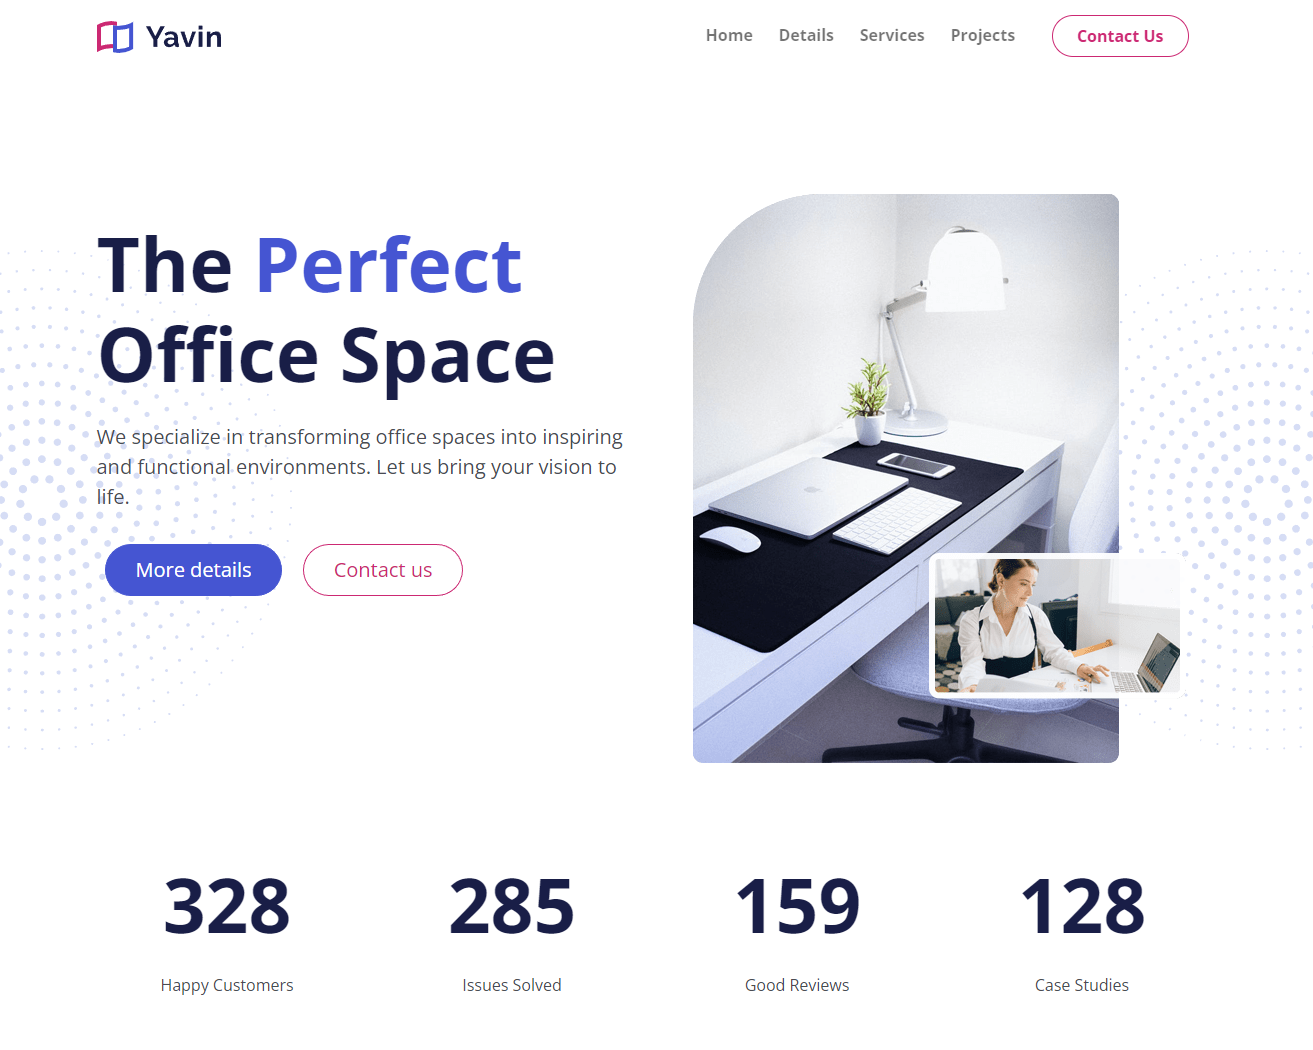
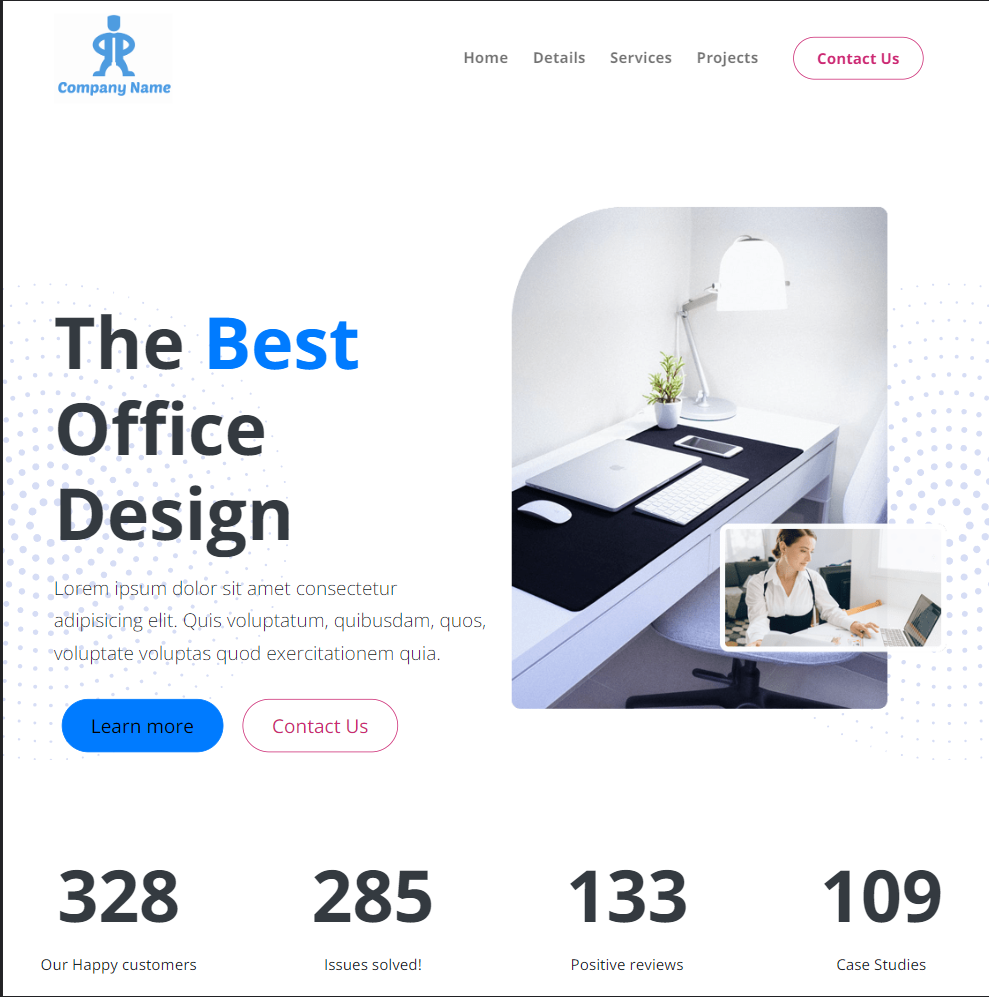
js for some stuff and whatnot

diff --git a/js/script.js b/js/script.js
@@ -1,0 +1,39 @@
+function userScroll() {
+  const navbar = document.querySelector(".navbar");
+
+  window.addEventListener("scroll", () => {
+    if (window.scrollY > 50) {
+      navbar.classList.add("navbar-sticky");
+    } else {
+      navbar.classList.remove("navbar-sticky");
+    }
+  });
+}
+
+// this is the auto incrementing stats
+function incrementStats() {
+  const counters = document.querySelectorAll(".counter");
+
+  counters.forEach((counter) => {
+    counter.innerText = "0";
+
+    const updateCounter = () => {
+      const target = +counter.getAttribute("data-target");
+      const c = +counter.innerText;
+
+      const increment = target / 200;
+
+      if (c < target) {
+        counter.innerText = `${Math.ceil(c + increment)}`;
+        setTimeout(updateCounter, 1);
+      } else {
+        counter.innerText = target;
+      }
+    };
+
+    updateCounter();
+  });
+}
+
+document.addEventListener("DOMContentLoaded", userScroll);
+document.addEventListener("DOMContentLoaded", incrementStats);

diff --git a/index.html b/index.html
@@ -107,6 +107,32 @@
         </div>
       </div>
     </header>
+    <!-- /Header -->
+
+    <!-- stats section -->
+    <section id="stats" class="stats-container">
+      <div class="row my-6">
+        <div class="col-md-3 col-sm-6 text-center">
+          <h2 class="counter xl-text" data-target="328"></h2>
+          <p>Our Happy customers</p>
+        </div>
+
+        <div class="col-md-3 col-sm-6 text-center">
+          <h2 class="counter xl-text" data-target="285"></h2>
+          <p>Issues solved!</p>
+        </div>
+
+        <div class="col-md-3 col-sm-6 text-center">
+          <h2 class="counter xl-text" data-target="133"></h2>
+          <p>Positive reviews</p>
+        </div>
+
+        <div class="col-md-3 col-sm-6 text-center">
+          <h2 class="counter xl-text" data-target="109"></h2>
+          <p>Case Studies</p>
+        </div>
+      </div>
+    </section>
 
     <script src="js/bootstrap.bundle.min.js"></script>
     <script src="js/script.js"></script>

diff --git a/scss/styles.scss b/scss/styles.scss
@@ -12,7 +12,6 @@
     }
 }
 
-// header background
 .header .decoration-star {
     top: 80px;
     left: -200px;
@@ -25,4 +24,48 @@
     right: -200px;
     width: 500px;
     opacity: 0.7;
+}
+
+.navbar {
+    transition: all 0.5s ease-in-out;
+}
+
+.navbar-sticky {
+    background: white;
+    opacity: 0.9;
+    box-shadow: 0 0 10px rgba(0, 0, 0, 0.5);
+}
+
+@media (max-width: 991px) {
+    .xl-text {
+        font-size: 50px;
+    }
+
+    .navbar {
+        .btn-outline-secondary {
+            margin-top: 20px;
+        }
+    }
+
+    .header {
+        margin-top: 0px !important;
+        text-align: center;
+    }
+
+    .header .decoration-star {
+        left: -100px;
+        width: 250px;
+    }
+
+    .header .decoration-star-2 {
+        right: -100px;
+        width: 250px;
+    }
+
+    .header .image-container {
+        margin-top: 30px;
+    }
+}
+
+@media (max-width: 767px) {
 }
